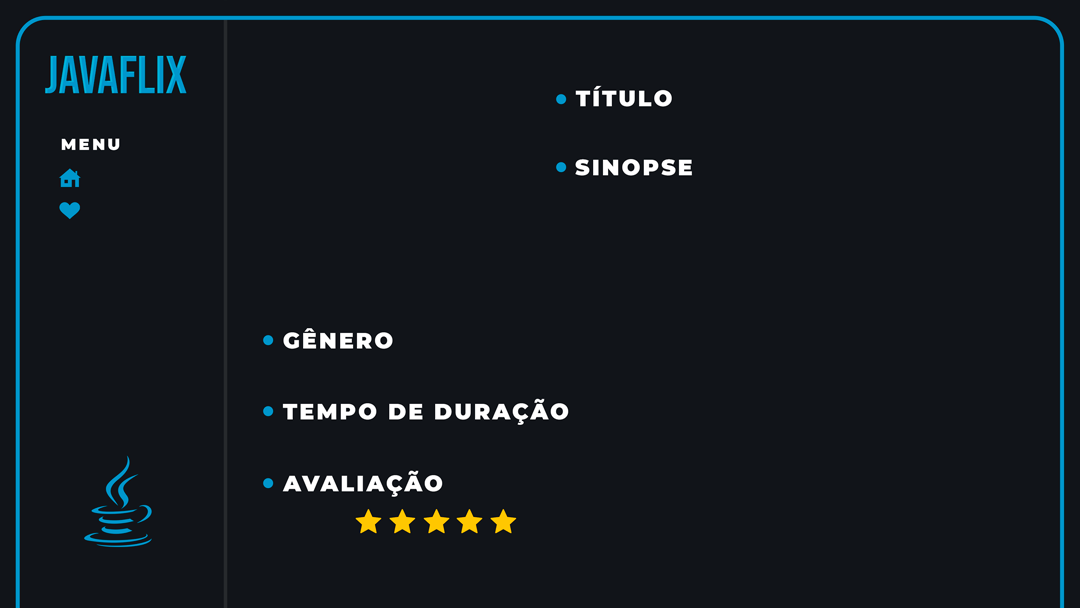
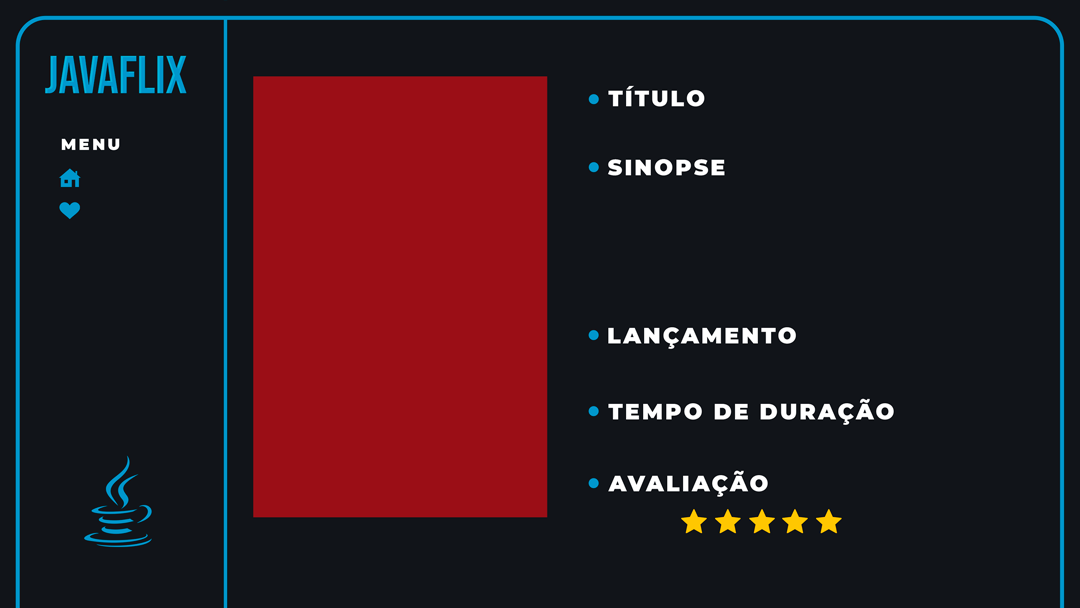
Update Temporario Telas

diff --git a/demo/src/main/java/example/controle/controllerSpecificScreen.java b/demo/src/main/java/example/controle/controllerSpecificScreen.java
@@ -24,7 +24,16 @@ public class controllerSpecificScreen implements Initializable{
     private Label labelTitle;
 
     @FXML
-    private controllerMenuScreen controller;
+    private Label labelSinopse;
+
+    @FXML
+    private Label labelAva;
+
+    @FXML
+    private Label labelLanc;
+
+    @FXML
+    private Label labelNsei;
 
     @FXML
     void clickReturnButton(MouseEvent event) {
@@ -40,6 +49,16 @@ public class controllerSpecificScreen implements Initializable{
                     System.out.println("Nova tela " + newScreen + " Dados " + userData);
                     labelTitle.setText(userData.getNome());
                     imagemFilme.setImage(new Image(userData.getImagem()));
+                    if (userData.getSinopse().isEmpty()){
+                        labelSinopse.setText("Não foi Possível Encontrar Sinopse para este filme");   
+                    }
+                    else{
+                        labelSinopse.setText(userData.getSinopse());
+                    }
+                    labelAva.setText(userData.getNota());
+                    labelLanc.setText(userData.getLancamento());
+                    labelNsei.setText(userData.getTipo());
+
                 }
             }
         });
